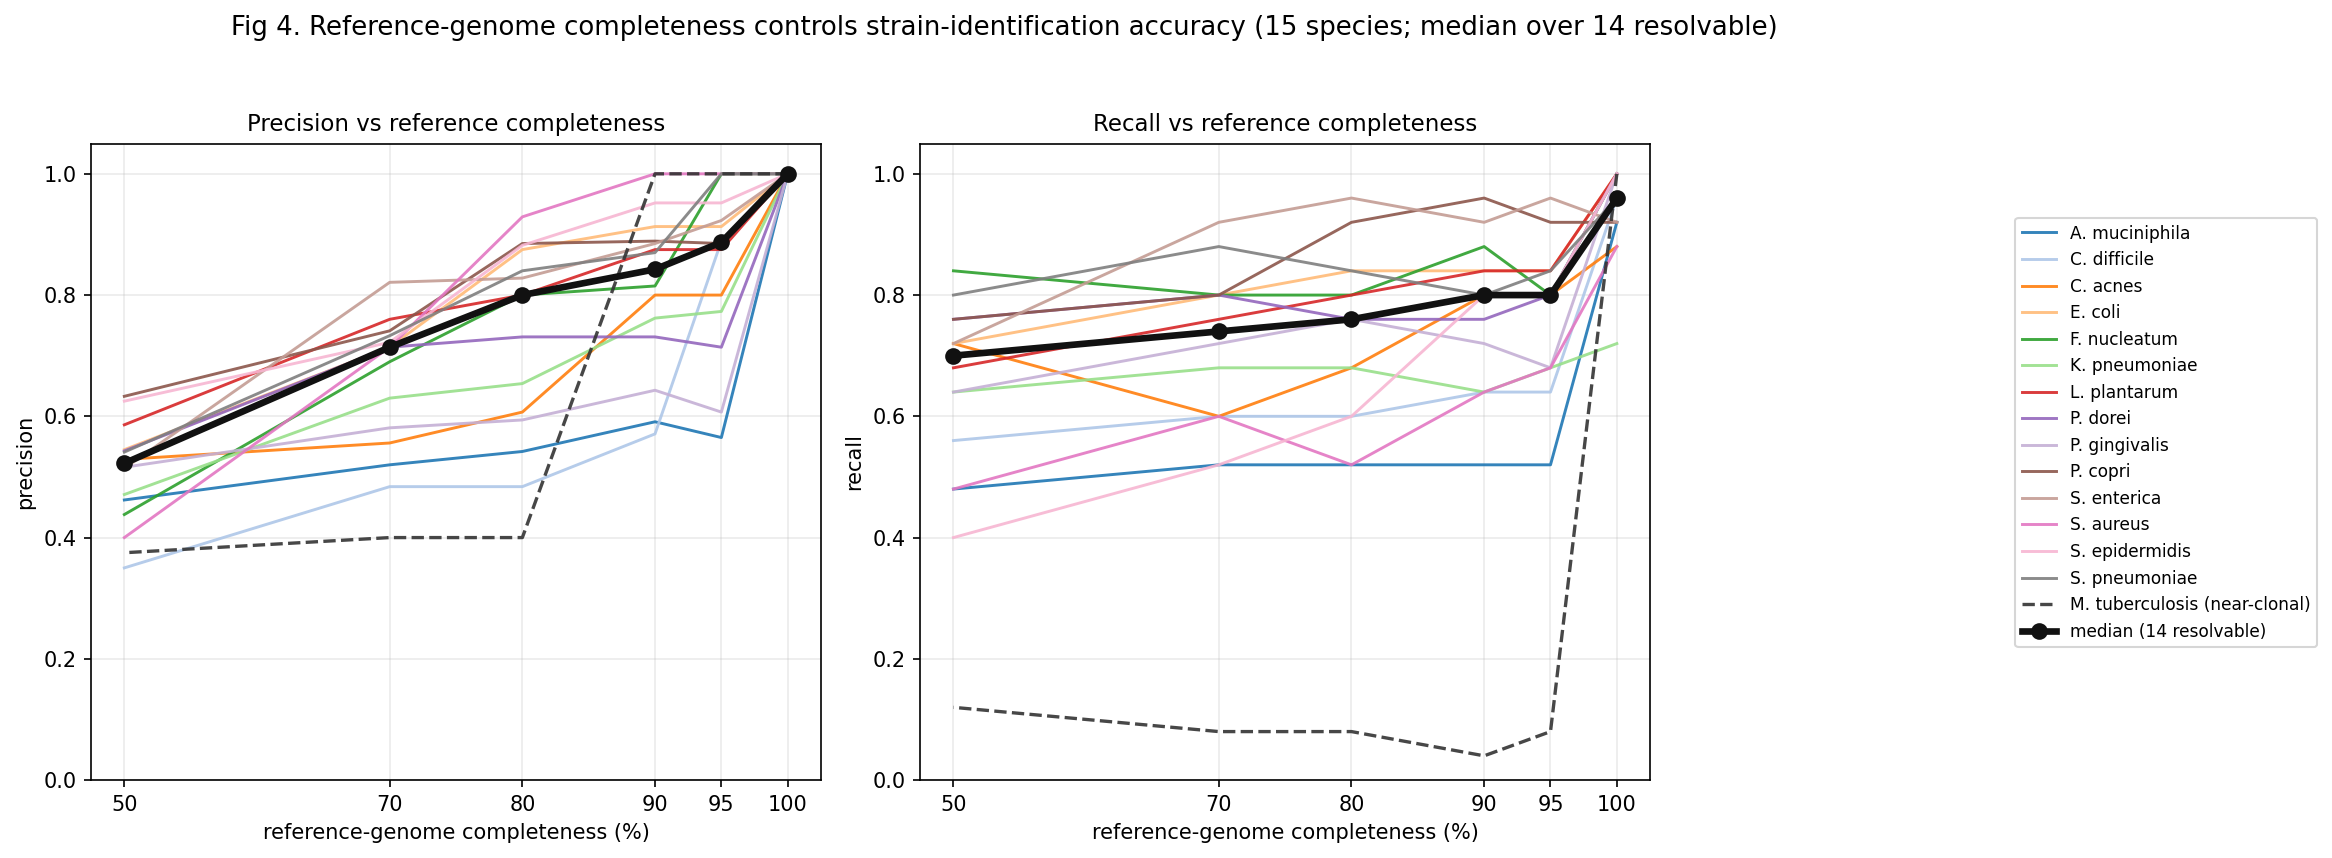
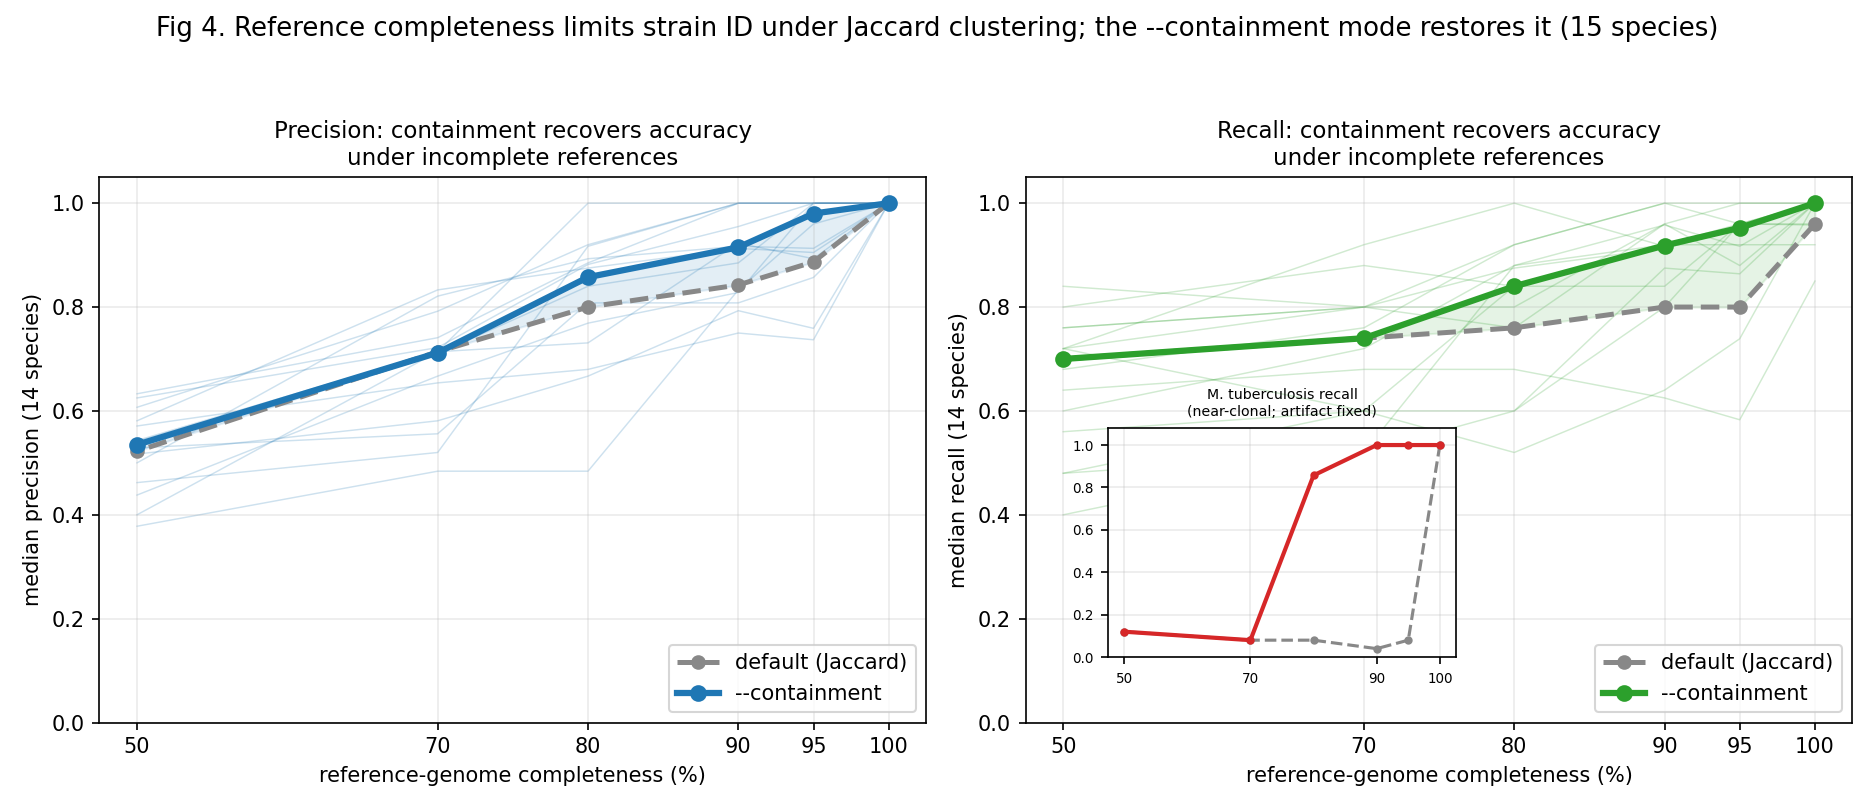
Fig 4 -> problem+solution: --containment clustering addresses reference incompleteness
Reframe Fig 4 to show the tool RESOLVES the completeness challenge, not just raise it. Add the
Jaccard-vs-containment comparison (results/refqual_15species_containment.tsv): default Jaccard loses
accuracy as references degrade (incomplete genomes split from complete relatives), but --containment
(max-containment) restores median precision 0.84->0.92 and recall 0.80->0.92 at 90% completeness,
holding ahead down to ~80% and converging only at <=70% (genuinely low-quality). Inset shows the
near-clonal M. tuberculosis artifact fixed (recall 0.05->1.0 to 90%). Figure = median precision/recall
vs completeness, Jaccard (dashed) vs containment (solid). Updated results, methods (containment mode),
figures.md, detailed legend, discussion; numbered Fig04. Software change committed separately to the
Strain2bScan repo.

diff --git a/scripts/plot_refqual15.py b/scripts/plot_refqual15.py
@@ -1,67 +1,52 @@
 #!/usr/bin/env python3
-"""Fig 4 (revised, labeled): impact of reference-genome completeness on strain identification across
-all 15 species. Precision (A) and recall (B) vs completeness; each species a labeled coloured line;
-bold median over the RESOLVABLE species. The near-clonal outlier (single 0.95 cluster) is drawn
-separately (dashed) and excluded from the median, because once its references degrade the single
-cluster splits into spurious singletons — a cluster-relabeling artifact, not a completeness effect."""
+"""Fig 4 (problem -> solution): reference-genome completeness vs strain-identification accuracy across
+15 species, and how the --containment clustering mode addresses it. Default Jaccard clustering
+(dashed) loses precision/recall as references degrade because incomplete genomes split from their
+complete relatives; max-containment clustering (solid) keeps them together, restoring accuracy down to
+~80% completeness. Median over the 14 resolvable species (near-clonal M. tuberculosis reported inset)."""
 import os, numpy as np
 from collections import defaultdict
 import matplotlib; matplotlib.use("Agg"); import matplotlib.pyplot as plt
 
-WORK = "/private/tmp/claude-501/-Users-macstudio-Downloads-YangJiazhen/091459b5-4e03-49b6-8502-3f2acf59ff13/scratchpad"
 PAPER = "/Users/macstudio/Downloads/Strain2bScan-paper"
-rows = [l.rstrip("\n").split("\t") for l in open(f"{WORK}/sim/refqual15/refqual_15species.tsv")][1:]
-# clusters per species (to flag near-clonal outliers = 1 cluster in the pool)
-nclust = {}
-for l in open(f"{PAPER}/figure_raw_data/sim_pool_summary.tsv").read().splitlines()[1:]:
-    sp, ng, nc = l.split("\t"); nclust[sp] = int(nc)
-
-P = defaultdict(dict); R = defaultdict(dict)
-for r in rows:
-    sp, comp = r[0], float(r[3]); P[sp][comp] = float(r[7]); R[sp][comp] = float(r[8])
-species = sorted(P)
-comps = sorted({float(r[3]) for r in rows}, reverse=True)
+def load(p):
+    P = defaultdict(dict); R = defaultdict(dict)
+    for l in open(p):
+        f = l.rstrip("\n").split("\t")
+        if l.startswith("#") or f[0] == "species": continue
+        P[f[0]][float(f[3])] = float(f[7]); R[f[0]][float(f[3])] = float(f[8])
+    return P, R
+Pj, Rj = load(f"{PAPER}/results/refqual_15species.tsv")
+Pc, Rc = load(f"{PAPER}/results/refqual_15species_containment.tsv")
+comps = sorted(set(Pj[next(iter(Pj))]), reverse=True)
 xt = [c * 100 for c in comps]
+OUT = "Mycobacterium_tuberculosis"
+res = [s for s in Pj if s != OUT]
+def med(D, sps): return [np.median([D[s][c] for s in sps if c in D[s]]) for c in comps]
 
-# outlier = near-clonal (single pool cluster) AND recall flat-low after any degradation
-def is_outlier(sp):
-    deg = [R[sp][c] for c in comps if c < 1.0]
-    return nclust.get(sp, 9) <= 1 and np.mean(deg) < 0.2
-outliers = [sp for sp in species if is_outlier(sp)]
-resolvable = [sp for sp in species if sp not in outliers]
-
-def med(D, sps):
-    return [np.median([D[sp][c] for sp in sps if c in D[sp]]) for c in comps]
-
-def short(sp):
-    g, s = sp.split("_", 1); return f"{g[0]}. {s.replace('_',' ')}"
-
-cmap = plt.get_cmap("tab20")
-colors = {sp: cmap(i % 20) for i, sp in enumerate(species)}
-
-fig, (a1, a2) = plt.subplots(1, 2, figsize=(13.5, 5.8), sharex=True)
-for ax, D, lab, mc in [(a1, P, "precision", "#111"), (a2, R, "recall", "#111")]:
-    for sp in resolvable:
-        xs = [c * 100 for c in comps]; ys = [D[sp][c] for c in comps]
-        ax.plot(xs, ys, "-", color=colors[sp], lw=1.4, alpha=0.9, label=short(sp))
-    for sp in outliers:
-        xs = [c * 100 for c in comps]; ys = [D[sp][c] for c in comps]
-        ax.plot(xs, ys, "--", color="#333", lw=1.6, alpha=0.9, label=short(sp) + " (near-clonal)")
-    ax.plot(xt, med(D, resolvable), "-o", color=mc, lw=3.2, ms=7, zorder=5,
-            label=f"median ({len(resolvable)} resolvable)")
-    ax.set_xlabel("reference-genome completeness (%)"); ax.set_ylabel(lab)
-    ax.set_ylim(0, 1.05); ax.set_xticks(xt)
-    ax.grid(alpha=0.25)
-    ax.set_title(f"{lab.capitalize()} vs reference completeness", fontsize=11)
-# single shared legend (species labels) to the right
-h, l = a1.get_legend_handles_labels()
-fig.legend(h, l, loc="center left", bbox_to_anchor=(0.995, 0.5), fontsize=8.2, frameon=True)
-fig.suptitle("Fig 4. Reference-genome completeness controls strain-identification accuracy (15 species; "
-             f"median over {len(resolvable)} resolvable)", fontsize=12.5)
-fig.tight_layout(rect=[0, 0, 0.83, 0.95])
-fig.savefig(f"{PAPER}/figures/refqual_figure.png", dpi=150, bbox_inches="tight")
-fig.savefig(f"{PAPER}/figures/refqual_figure.pdf", bbox_inches="tight")
-print("outliers (reported separately):", outliers)
-print("median precision (resolvable):", [round(x, 2) for x in med(P, resolvable)])
-print("median recall (resolvable):   ", [round(x, 2) for x in med(R, resolvable)])
+fig, (a1, a2) = plt.subplots(1, 2, figsize=(12.5, 5.4), sharex=True)
+for ax, Dj, Dc, lab, col in [(a1, Pj, Pc, "precision", "#1f77b4"), (a2, Rj, Rc, "recall", "#2ca02c")]:
+    for s in res:  # light per-species containment lines (spread)
+        ax.plot(xt, [Dc[s][c] for c in comps], "-", color=col, lw=0.7, alpha=0.22, zorder=1)
+    ax.plot(xt, med(Dj, res), "--o", color="#888", lw=2.4, ms=6, zorder=4, label="default (Jaccard)")
+    ax.plot(xt, med(Dc, res), "-o", color=col, lw=3.0, ms=7, zorder=5, label="--containment")
+    ax.fill_between(xt, med(Dj, res), med(Dc, res), color=col, alpha=0.12, zorder=0)
+    ax.set_xlabel("reference-genome completeness (%)"); ax.set_ylabel(f"median {lab} (14 species)")
+    ax.set_ylim(0, 1.05); ax.set_xticks(xt); ax.grid(alpha=0.25)
+    ax.legend(loc="lower right", fontsize=10)
+    ax.set_title(f"{lab.capitalize()}: containment recovers accuracy\nunder incomplete references", fontsize=11)
+# inset: the M. tuberculosis near-clonal artifact fix (recall)
+axi = a2.inset_axes([0.10, 0.12, 0.42, 0.42])
+axi.plot(xt, [Rj[OUT][c] for c in comps], "--o", color="#888", lw=1.5, ms=3)
+axi.plot(xt, [Rc[OUT][c] for c in comps], "-o", color="#d62728", lw=2, ms=3)
+axi.set_ylim(0, 1.08); axi.set_xticks([50, 70, 90, 100]); axi.tick_params(labelsize=6.5)
+axi.set_title("M. tuberculosis recall\n(near-clonal; artifact fixed)", fontsize=6.8)
+axi.grid(alpha=0.25)
+fig.suptitle("Fig 4. Reference completeness limits strain ID under Jaccard clustering; the --containment "
+             "mode restores it (15 species)", fontsize=12.5)
+fig.tight_layout(rect=[0, 0, 1, 0.94])
+fig.savefig(f"{PAPER}/figures/refqual_figure.png", dpi=150)
+fig.savefig(f"{PAPER}/figures/refqual_figure.pdf")
+print("Jaccard  precision:", [round(x,2) for x in med(Pj,res)], "recall:", [round(x,2) for x in med(Rj,res)])
+print("Contain  precision:", [round(x,2) for x in med(Pc,res)], "recall:", [round(x,2) for x in med(Rc,res)])
 print("wrote figures/refqual_figure.png/pdf")

diff --git a/scripts/run_refqual_15species.py b/scripts/run_refqual_15species.py
@@ -16,6 +16,9 @@ OUTDIR = f"{WORK}/sim/refqual15"; os.makedirs(OUTDIR, exist_ok=True)
 SET14 = "CspCI,AloI,BsaXI,BaeI,BcgI,CjeI,PpiI,PsrI,BplI,FalI,Bsp24I,CjePI,AlfI,BslFI"
 LEVELS = [(1.00, 0.00, 1), (0.95, 0.01, 20), (0.90, 0.02, 50), (0.80, 0.05, 100), (0.70, 0.08, 200), (0.50, 0.10, 400)]
 DEPTH = "5"   # fixed sample depth for the completeness sweep
+CONTAINMENT = os.environ.get("CONTAINMENT", "") not in ("", "0")   # cluster on max-containment
+CLUSTER_FLAGS = ["--containment"] if CONTAINMENT else []
+OUTNAME = "refqual_15species_containment.tsv" if CONTAINMENT else "refqual_15species.tsv"
 env = {**os.environ, "STRAIN2BSCAN_THREADS": "16"}
 
 species = sorted(os.path.basename(d.rstrip("/")) for d in glob.glob(f"{POOL}/*/"))
@@ -41,7 +44,7 @@ def combined_reads(sp, name):
             with gzip.open(p, "rb") as fi: shutil.copyfileobj(fi, fo, 1 << 22)
     return tmp
 
-out = open(f"{OUTDIR}/refqual_15species.tsv", "w")
+out = open(f"{OUTDIR}/{OUTNAME}", "w")
 out.write("species\tconfig\tn_truth_strains\tcompleteness\tcontamination\tn_contigs\tn_clusters\tprecision\trecall\tbray_curtis\n")
 for sp in species:
     cfg = pick_config(sp)
@@ -78,7 +81,7 @@ for sp in species:
         for g in background:
             os.symlink(os.path.abspath(f"{POOL}/{sp}/{g}.fna"), f"{pdir}/{g}.fna")
         db = f"{OUTDIR}/{sp}_db_{tag}.tsv"
-        r = subprocess.run([BIN, "cluster", "--genomes", pdir, "--enzyme", SET14, "--out", db, "--similarity", "0.95"],
+        r = subprocess.run([BIN, "cluster", "--genomes", pdir, "--enzyme", SET14, "--out", db, "--similarity", "0.95"] + CLUSTER_FLAGS,
                            capture_output=True, text=True, env=env)
         ncl = int(m.group(1)) if (m := re.search(r"into (\d+) cluster", r.stdout)) else 0
         g2c = {}

diff --git a/manuscript/results.md b/manuscript/results.md
@@ -54,23 +54,27 @@ over-detect near-identical strains. Recall, not precision, is the species-depend
 missing it only at 0.1× — the **same detection onset as StrainScan** (Fig 3B) — so the sparse marker set
 carries no low-depth penalty at realistic coverage.
 
-Reference-genome **completeness** is the dominant control on strain-identification accuracy, and we
-tested it across **all 15 species** (Fig 4). Holding the sample reads fixed and progressively degrading
-the truth strains' reference genomes (completeness 100 → 50 %, with co-varying contamination and
-fragmentation), **precision is 1.0 for every species at 100 % completeness** (median recall 0.96) and
-then falls as references degrade — across the 14 **resolvable** species, **median precision 1.0 → 0.84
-(90 %) → 0.71 (70 %) → 0.52 (50 %)** and median recall 0.96 → 0.80 → 0.74 → 0.70 (Fig 4A precision, 4B
-recall). Fragmented, incomplete genomes split clusters and shed the unique markers that distinguish
-strains, so complete/near-complete references are required for reliable strain calls — motivating the
-built-in assembly-quality filter that flags low-quality references before clustering (and the
-complete-genome restriction used throughout, e.g. Fig 2). One species behaves qualitatively differently
-and is reported separately: near-clonal ***M. tuberculosis*** collapses to recall ≈ 0.05 the moment its
-references are degraded (its pool forms a **single 0.95 cluster**, so degradation shatters it into
-spurious singletons and the truth spans clusters that the reads — from complete genomes — no longer
-match). This is a cluster-relabeling artifact of near-clonality rather than a graded completeness effect,
-so *M. tuberculosis* is excluded from the median (dashed line, Fig 4); it echoes its intrinsic
-near-clonal limit seen elsewhere (Fig 10). Among resolvable species the effect is mildest for diverse
-*Salmonella enterica* and *S. pneumoniae*.
+Reference-genome **completeness** limits strain-identification accuracy — and Strain2bScan provides a
+clustering mode that addresses it, tested across **all 15 species** (Fig 4). Holding the sample reads
+fixed and progressively degrading the truth strains' reference genomes (completeness 100 → 50 %, with
+co-varying contamination and fragmentation), default **Jaccard** clustering loses accuracy as
+completeness falls — across the 14 **resolvable** species, median precision 1.0 → 0.84 (90 %) → 0.71
+(70 %) and recall 0.96 → 0.80 (90 %) → 0.74 (70 %) — because an incomplete genome's markers are (approx.)
+a **subset** of its complete relative's, dropping their Jaccard below the 0.95 cut and spuriously
+splitting them into new singleton clusters. The **`--containment` clustering mode** dissolves this:
+max-containment = |A∩B| / min(|A|,|B|) stays ≈ 1 when one genome is a subset of another (the estimator
+Mash-screen/sourmash use), so incomplete genomes cluster with their complete relatives instead of
+fragmenting. With `--containment`, median **precision rises to 0.98 / 0.92 and recall to 0.95 / 0.92 at
+95 % / 90 % completeness** and stays ahead of Jaccard down to ~80 %, converging only at ≤ 70 % where the
+references are genuinely low-quality (MIMAG-low; heavy contamination + hundreds of contigs). It also
+**removes the near-clonal *M. tuberculosis* artifact**: its single 0.95 cluster stays intact, so recall
+holds at 1.0 to 90 % under containment versus collapsing to ≈ 0.05 under Jaccard the moment references
+degrade (Fig 4 inset) — confirming that collapse was cluster fragmentation, not a true completeness
+effect. Because max-containment merges slightly more aggressively (it can coarsen clusters on
+already-complete panels), it is an **opt-in mode for reference panels of uneven completeness**; the
+default remains Jaccard, complemented by the built-in assembly-quality filter (`--min-tag-fraction` /
+`--max-contigs`) that drops low-quality genomes before clustering and the complete-genome practice used
+elsewhere (e.g. Fig 2).
 
 ## Part I — Native 2bRAD-M for low-biomass, high-host microbiomes
 

diff --git a/manuscript/figure_legends_detailed.md b/manuscript/figure_legends_detailed.md
@@ -70,29 +70,30 @@ and **detection onset 0.5× coverage matching StrainScan** — no low-depth pena
 
 ---
 
-## Figure 4 — Reference-genome completeness controls strain-identification accuracy (all 15 species)
+## Figure 4 — Reference-genome completeness limits strain ID under Jaccard; the `--containment` mode restores it
 **1. Data source.**
 - *Data type:* simulation — ART PE250 reads from the 15-species pool (same dataset as Figs 3/5/9/10);
-  reference genomes are degraded assemblies.
+  reference genomes are degraded assemblies. Two clustering modes compared.
 - *Production/collection:* per species, a fixed multi-strain sample (2/3/5-strain uneven community at 5×,
   5 reps) is profiled while the truth strains' reference genomes are degraded across a completeness ladder
-  **100/95/90/80/70/50 %**, with co-varying contamination (0→10 %) and fragmentation (1→400 contigs;
-  `scripts/degrade.py`); the DB is rebuilt at each level and the same reads re-profiled.
+  **100/95/90/80/70/50 %** (contamination 0→10 %, fragmentation 1→400 contigs; `scripts/degrade.py`); the
+  DB is rebuilt at each level under **Jaccard** and under **`--containment`** and the same reads re-profiled.
 - *Raw data (local):* reads under `figure_raw_data/sim_single_species/`; genome pool by accession
-  (`sim_pool_manifest.tsv`); result `results/refqual_15species.tsv`.
-**2. Key issue & conclusion.** How does reference-genome completeness affect strain identification, across
-species? Conclusion: **precision is 1.0 for all 15 species with complete references**, and both precision
-and recall **decline as references degrade** — across the 14 resolvable species, median precision
-1.0→0.84→0.71→0.52 and recall 0.96→0.80→0.74→0.70 across 100→90→70→50 %. Degraded, fragmented genomes
-split clusters and shed unique markers, so complete/near-complete references are required — motivating the
-assembly-quality filter. Near-clonal *M. tuberculosis* (single 0.95 cluster) is reported separately.
+  (`sim_pool_manifest.tsv`); results `results/refqual_15species.tsv` (Jaccard) and
+  `results/refqual_15species_containment.tsv`.
+**2. Key issue & conclusion.** Does reference incompleteness break strain ID, and does the tool address it?
+Conclusion: under default **Jaccard**, precision and recall decline as references degrade (median precision
+1.0→0.84→0.71, recall 0.96→0.80→0.74 at 100→90→70 %) because incomplete genomes split from complete
+relatives. The **`--containment`** mode (max-containment) keeps them clustered, restoring median precision
+to 0.98/0.92 and recall to 0.95/0.92 at 95/90 % completeness, converging with Jaccard only at ≤70 %
+(genuinely low-quality). It also removes the near-clonal *M. tuberculosis* artifact. Containment is opt-in
+(merges more aggressively); default stays Jaccard + the assembly-quality filter.
 **3. Results by subfigure.**
-- **(A)** Precision vs reference completeness — one labeled coloured line per species + bold median (14
-  resolvable species); all species 1.0 at 100 %, spreading down as completeness falls.
-- **(B)** Recall vs reference completeness — same layout. *M. tuberculosis* (dashed, excluded from median):
-  recall drops to ≈0.05 the moment references degrade because its single cluster shatters into spurious
-  singletons — a cluster-relabeling artifact of near-clonality, not a graded completeness effect. Diverse
-  species (*S. enterica*, *S. pneumoniae*) are most robust.
+- **(A)** Median precision vs completeness: Jaccard (grey dashed) vs `--containment` (solid), shaded gap;
+  faint per-species containment lines show the spread.
+- **(B)** Median recall vs completeness, same layout. **Inset:** *M. tuberculosis* recall — Jaccard collapses
+  to ≈0.05 on any degradation (its single cluster shatters into spurious singletons), `--containment` holds
+  1.0 to 90 % (the near-clonal cluster-fragmentation artifact is fixed).
 
 ---
 

diff --git a/manuscript/figures.md b/manuscript/figures.md
@@ -41,14 +41,18 @@ Sources: `results/cross_species.tsv`, `results/depth_sensitivity.tsv`; docs: `do
 **Figure 4. Reference-genome completeness controls strain-identification accuracy (all 15 species).**
 `figures/refqual_figure.{png,pdf}`. Sample reads held fixed while the truth strains' reference genomes are
 degraded (completeness 100→50 %, with co-varying contamination + fragmentation), DB rebuilt and re-profiled.
-(A) precision vs completeness; (B) recall vs completeness — one coloured, labeled line per species,
-bold black = median over the 14 **resolvable** species. Precision 1.0 for all species at 100 %; median
-precision 1.0→0.84→0.71→0.52 and recall 0.96→0.80→0.74→0.70 as completeness falls 100→90→70→50 %.
-Near-clonal ***M. tuberculosis*** (single 0.95 cluster) is drawn separately (dashed) and excluded from the
-median: once degraded, its cluster shatters into spurious singletons (a cluster-relabeling artifact, not a
-completeness gradient) so recall drops to ≈0.05. Source: `results/refqual_15species.tsv`; generators
-`scripts/run_refqual_15species.py`, `scripts/plot_refqual15.py`; doc: `docs/refgenome_quality.md`.
-(The former panel-size panel, Fig 4A, was retired after the both-strand digestion fix.)
+Problem → solution. (A) median precision, (B) median recall vs reference completeness (14 resolvable
+species; faint lines = per-species containment), comparing **default Jaccard** clustering (grey dashed)
+with the **`--containment`** mode (solid, shaded gap). Degrading references collapses Jaccard accuracy
+(precision 1.0→0.84→0.71, recall 0.96→0.80→0.74 at 100→90→70 %) because incomplete genomes split from
+complete relatives; `--containment` (max-containment) keeps them together, restoring precision to
+0.98/0.92 and recall to 0.95/0.92 at 95/90 %, converging with Jaccard only at ≤70 % (genuinely
+low-quality). Inset (B): near-clonal ***M. tuberculosis*** recall — Jaccard collapses to ≈0.05 on any
+degradation (single cluster shatters), containment holds 1.0 to 90 % (artifact fixed). Sources:
+`results/refqual_15species.tsv` (Jaccard), `results/refqual_15species_containment.tsv`; generators
+`scripts/run_refqual_15species.py` (set `CONTAINMENT=1`), `scripts/plot_refqual15.py`; the `--containment`
+mode is in `../Strain2bScan/src/cst.rs`. (The former panel-size panel, Fig 4A, was retired after the
+both-strand digestion fix.)
 
 **Figure 5. The 2bRAD enzyme set is a resolution/cost knob enabling native BcgI operation.**
 `figures/enzyme_sweep.{png,pdf}` — on *C. acnes*, precision/recall, strain-specific marker count and

diff --git a/manuscript/discussion.md b/manuscript/discussion.md
@@ -48,11 +48,16 @@ claim. Resolving to clusters does not cost precision (it stayed 1.0 even for low
 number, from every other cluster — eliminates false-unique markers from single-copy filtering and keeps
 precision 1.0 in similar-strain species. MinHash-sketch clustering scales database construction while
 producing partitions identical to exact Jaccard and to StrainScan's own pre-built *P. copri* clustering
-(112 → 51 clusters; `results/panelsize_prevotella.tsv`). Assembly-quality filtering counters the
-completeness bias of Jaccard clustering, which matters: degrading reference genomes lowers
-strain-identification precision *and* recall across all 15 species (Fig 4), and the same completeness
-concern motivated restricting the Fig 2 motivation panel to complete/near-complete genomes, where the
-2bRAD-over-16S advantage is unchanged (median 0.90→0.94), confirming it is not a draft-assembly artifact. The enzyme count is an explicit resolution/cost control
+(112 → 51 clusters; `results/panelsize_prevotella.tsv`). Reference incompleteness is the one factor that
+genuinely degrades strain identification under Jaccard — an incomplete genome's markers are a subset of a
+complete relative's, so the two fall below the 0.95 similarity cut and split (Fig 4). We address this two
+ways: the built-in assembly-quality filter drops low-quality genomes before clustering
+(`--min-tag-fraction`/`--max-contigs`), and the optional **`--containment` clustering mode**
+(max-containment) keeps subset genomes with their complete relatives, restoring precision/recall down to
+~80 % completeness and removing the near-clonal *M. tuberculosis* cluster-fragmentation artifact (Fig 4).
+The same completeness concern motivated restricting the Fig 2 motivation panel to complete/near-complete
+genomes, where the 2bRAD-over-16S advantage is unchanged (median 0.90→0.94), confirming it is not a
+draft-assembly artifact. The enzyme count is an explicit resolution/cost control
 (~4 enzymes captures most recall; Fig 5), and single-enzyme BcgI operation is what enables native
 2bRAD-M libraries.
 

diff --git a/manuscript/methods.md b/manuscript/methods.md
@@ -38,6 +38,17 @@ cost from O(n²·m) to O(n²·k) with *k* ≪ *m* and yields partitions identica
 data (Results). Clusters are the finest reliable resolution unit: strains within one cluster
 are too similar to separate from short reads.
 
+**Containment clustering for uneven-completeness panels (`--containment`).** Jaccard penalises
+incompleteness: an incomplete genome's markers are approximately a *subset* of a complete relative's,
+so |A∩B|/|A∪B| falls below τ and the two spuriously split. The optional `--containment` mode instead
+links on **max-containment**, |A∩B| / min(|A|,|B|), which stays ≈ 1 when one marker set is contained in
+the other — the containment estimator used by Mash-screen and sourmash for uneven-completeness genomes.
+It is exact for small panels; for large panels the intersection is estimated from the MinHash-sketch
+Jaccard and the exact set sizes (|A∩B| = J·(|A|+|B|)/(1+J)), then divided by min(|A|,|B|). Because
+max-containment ≥ Jaccard it merges at least as much, so it is opt-in (for reference sets of mixed
+completeness) while the default stays Jaccard; the assembly-quality filter below is the
+complementary first line of defence.
+
 **Marker classification.** Within a species, each tag is labelled by its within-species
 incidence — present in all clusters (*species-core*; detects the species, not strains), in one
 cluster with ≥2 genomes (*cluster-specific*), in a single genome (*strain-specific*), or in